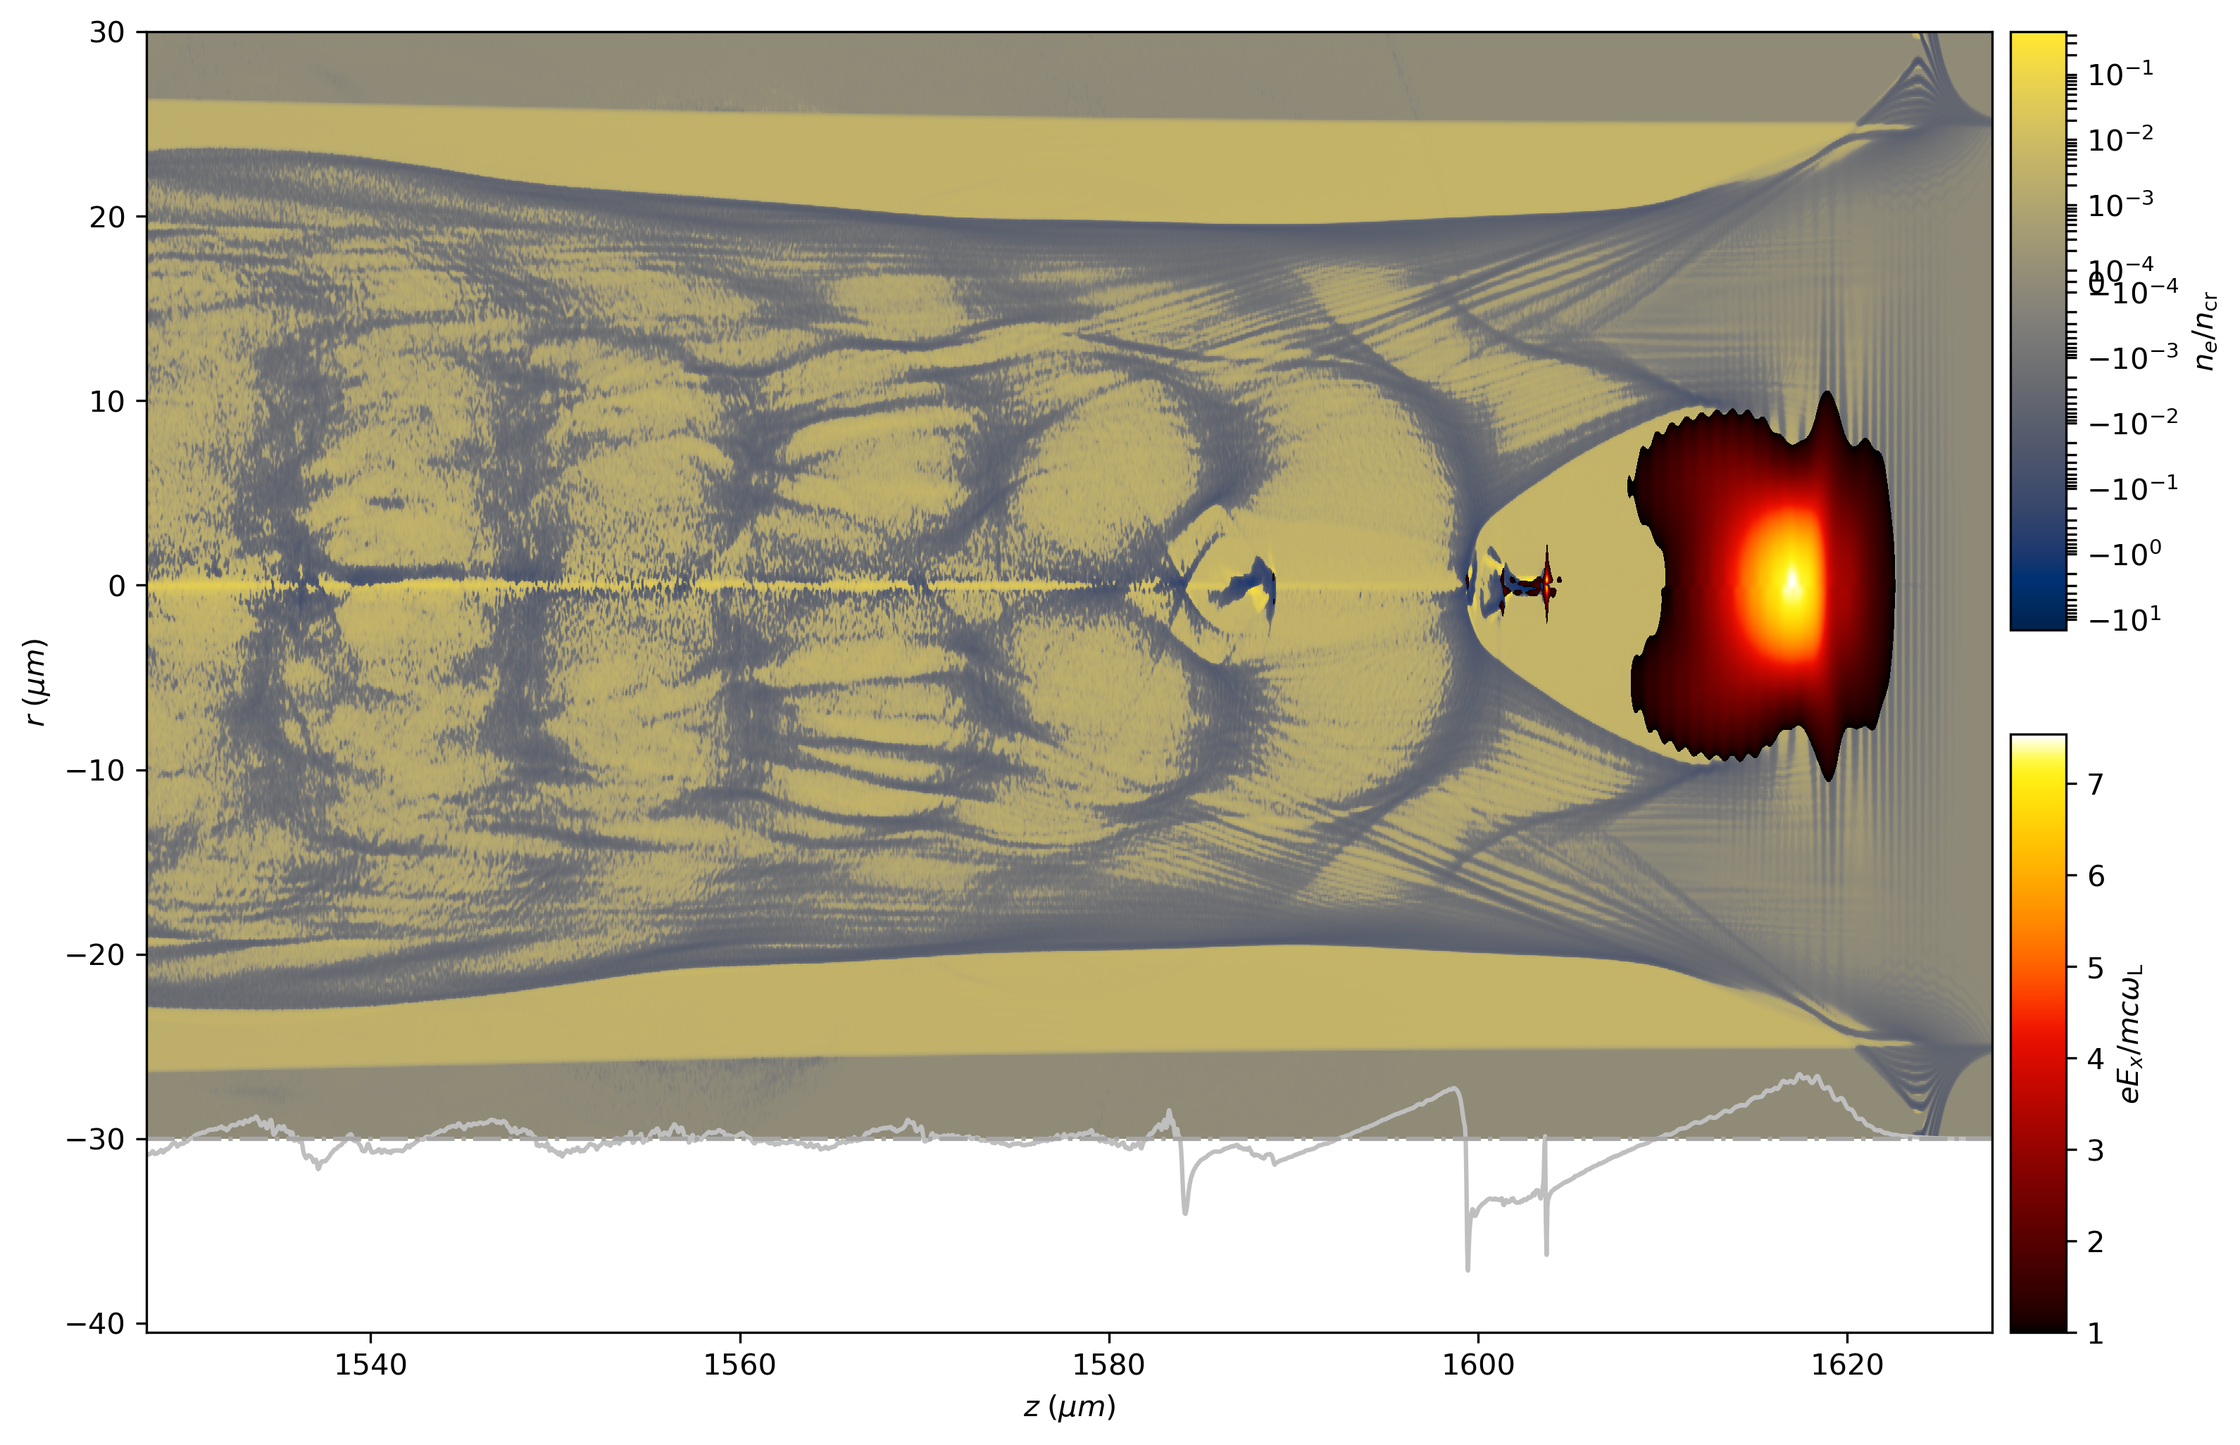
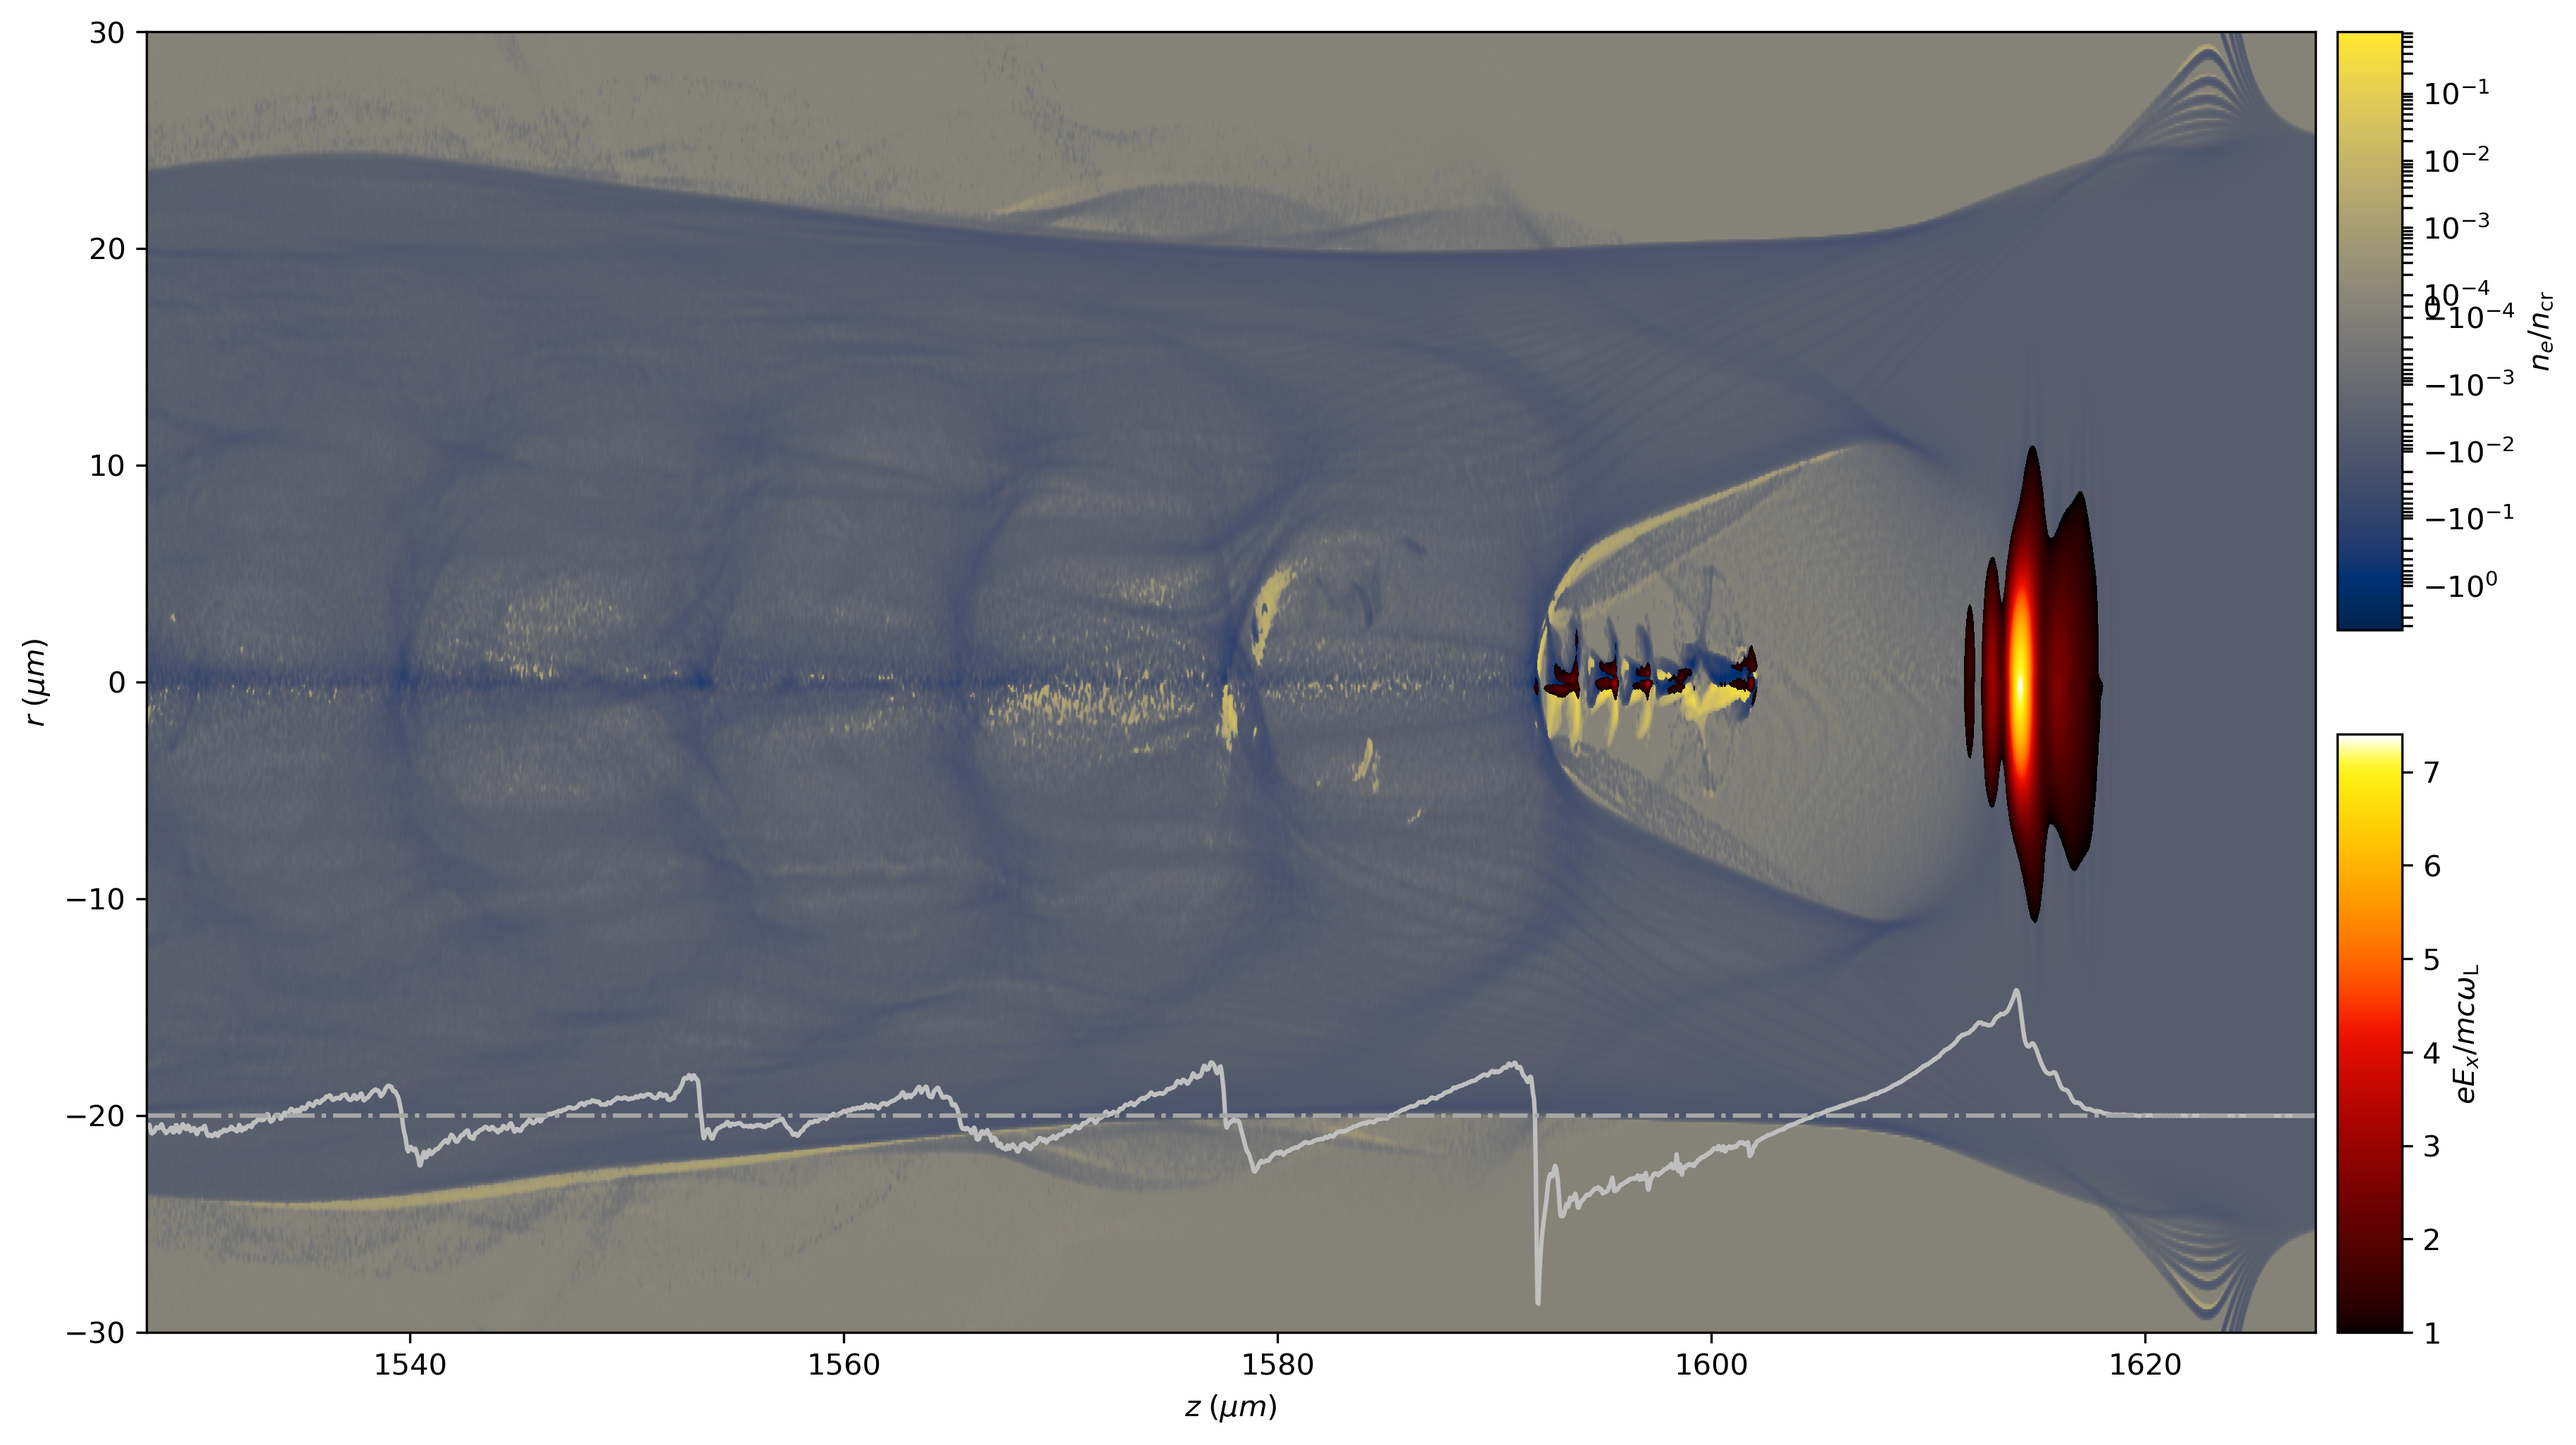
Move E slice up

diff --git a/laser_density.py b/laser_density.py
@@ -15,7 +15,7 @@ import colorcet as cc
 
 
 my_cmap = copy(cc.m_fire)
-my_cmap.set_under("white", alpha=0)
+my_cmap.set_under("black", alpha=0)
 
 a0 = 2.4 * u.dimensionless  # Laser amplitude
 tau = 25.0e-15 / 2.354820045 * u.second  # Laser duration
@@ -44,7 +44,7 @@ ts = addons.LpaDiagnostics(p)
 # Note: one can also normalize by the critical density n_c
 
 rho, rho_info = ts.get_field(
-    field="rho",
+    field="rho_electrons",
     iteration=40110,
     plot=True,
 )
@@ -77,8 +77,8 @@ im_envelope = ax.imshow(
 im_envelope.set_clim(vmin=1.0)
 
 # plot longitudinal field
-ax.plot(e_z_of_z_info.z * 1e6, e_z_of_z / E0 * 25 - 30, color="0.75")
-ax.axhline(-30, color="0.65", ls="-.")
+ax.plot(e_z_of_z_info.z * 1e6, e_z_of_z / E0 * 25 - 20, color="0.75")
+ax.axhline(-20, color="0.65", ls="-.")
 
 cbaxes_rho = inset_axes(
     ax,
